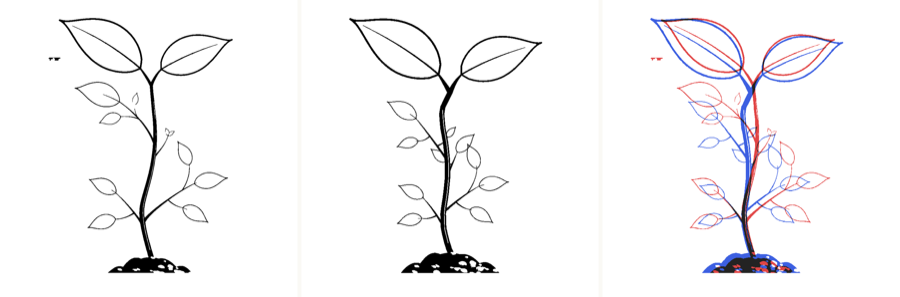
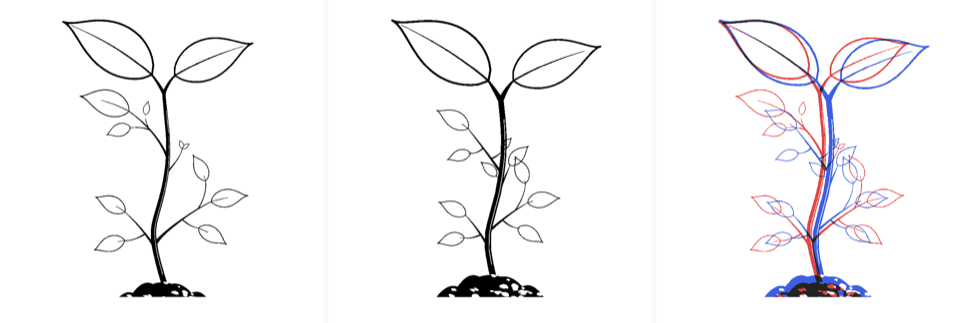
Give the canopy stem the template's curve
Read bottom-up, the template turns left out of the soil, makes one
sustained rightward sweep from about the first branch to the height of
the second right-hand branch, and turns back left once into the
bifurcation. Two inflections. Ours made a much smaller rightward move,
drifted back left, and then added a third curve to the right just under
the bifurcation.

That third curve was an artefact of how the profile reached the fork.
canopyLean was every value negative — the stem never crossed to the right
of its chord at all — so it had to be pulled back to zero at t=1 to arrive
where the cotyledons hang from, and the pull is the extra bend. The
profile came from skeletonising a PNG, which found the bends and lost
which way they went.

The vector trace gives the centreline directly, and it cannot be carried
by the profile alone: the reference's stem finishes right of its foot,
0.4825 to 0.5016, where ours has always finished left, 0.515 to 0.500. A
profile must reach zero at the fork, so the chord has to carry that drift
instead. Hence forkX, which moves the canopy's fork to 0.528 and leaves
every earlier stage's at 0.500.

Verified analytically rather than by eye or by tracer, both of which have
misled repeatedly today: computing the template's centreline from the SVG
and ours from the constants, the two agree to within 0.003 of stem length
at every tenth, with 97% of the sway and two direction changes each.
Stage 3 differs by 3 pixels of 62,408, which is antialiasing.
[…]

diff --git a/Written/Views/Tree/SeedlingArt.swift b/Written/Views/Tree/SeedlingArt.swift
@@ -64,7 +64,25 @@ enum SeedlingArt {
         let into = along - CGFloat(index)
         let from = forkHeights[index]
         let to = forkHeights[min(index + 1, forkHeights.count - 1)]
-        return CGPoint(x: 0.500, y: from + (to - from) * into)
+        return CGPoint(x: forkX(extended: extended), y: from + (to - from) * into)
+    }
+
+    /// Where the fork sits across the canvas.
+    ///
+    /// Straight above the foot for every stage but the last. The reference's
+    /// canopy finishes its stem *right* of where it started — foot at 0.4825 of
+    /// the viewBox, fork at 0.5016 — where ours has always finished left, at
+    /// 0.500 against a foot at 0.515.
+    ///
+    /// That difference cannot be left to the lean profile. `stemOffset` adds the
+    /// profile to the chord between foot and fork, so the profile has to reach
+    /// zero at the top or the stem arrives somewhere the cotyledons are not
+    /// hanging from. Ask it to carry the chord's error as well and it has to
+    /// snap back at t=1 — which is the third curve, the one just under the
+    /// bifurcation, that should not be there.
+    static func forkX(extended: CGFloat) -> CGFloat {
+        let canopy = min(max(extended - 3, 0), 1)
+        return 0.500 + (0.528 - 0.500) * canopy
     }
 
     // MARK: Leaf attachment
@@ -225,18 +243,30 @@ enum SeedlingArt {
     /// Two curves blended by the stage: the early stem's gentle bulge to the
     /// right, and phase 3's lean to the left. The user sees one stem that
     /// starts to bend as the plant puts on height.
-    /// The same profile traced off the phase-5 reference, which does *not*
-    /// straighten above halfway the way phase 3 does.
+    /// The canopy's own profile, read off the reference's centreline rather than
+    /// skeletonised out of a screenshot.
     ///
-    /// The two agree for the bottom half and part company above it: phase 3 runs
-    /// -0.002, 0.003, 0.004 over t = 0.6…0.8 where this runs -0.027, -0.034,
-    /// -0.049. That difference is the whole silhouette — a stem that keeps
-    /// bowing left under the crown against one that stands up straight — and it
-    /// is why the drawn plant read as a different species from the reference
-    /// even with the fork and the shoots in the right places.
+    /// **One left lobe, then one right lobe, and nothing after.** The reference
+    /// turns left out of the soil to about a quarter of the way up, sweeps right
+    /// in a single unbroken arc to roughly four fifths, and turns back left once
+    /// into the fork. Two inflections. Its centreline, sampled every tenth:
+    ///
+    ///     .4825 .4643 .4518 .4529 .4717 .4908 .5034 .5113 .5133 .5086 .5016
+    ///
+    /// The first attempt at this had every value negative — the stem never
+    /// crossed to the right of its chord at all, drifted further left over the
+    /// last third, and was then pulled back to zero at the top to meet the fork.
+    /// That pull is a third curve, sitting just under the bifurcation where the
+    /// reference has none, and it is what made the two stems read as different
+    /// plants. It came from skeletonising a PNG, which found the bends and lost
+    /// which way they went.
+    ///
+    /// Scaled by the reference's 940×1120 viewBox against our own units, and
+    /// paired with `forkX`, which carries the rightward finish this profile
+    /// cannot.
     static let canopyLean: [CGFloat] = [
-        0.000, -0.040, -0.062, -0.062, -0.043,
-        -0.030, -0.027, -0.034, -0.049, -0.053, 0.000
+        0.000, -0.028, -0.048, -0.049, -0.026,
+        -0.002, 0.013, 0.022, 0.022, 0.013, 0.000
     ]
 
     private static func lean(_ profile: [CGFloat], at t: CGFloat) -> CGFloat {
